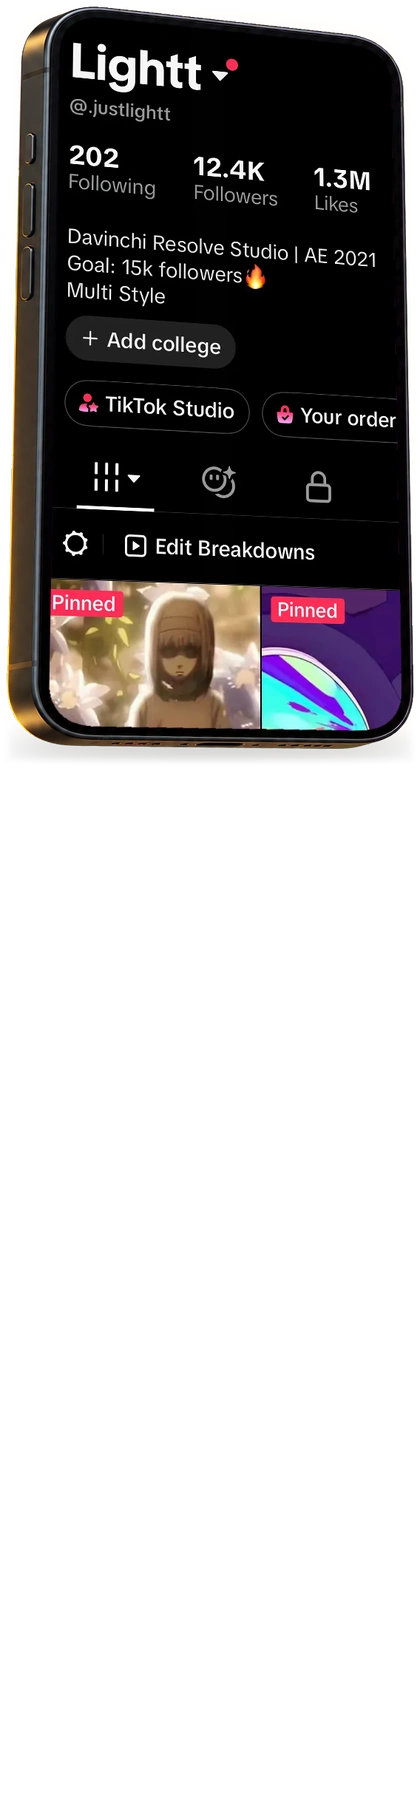
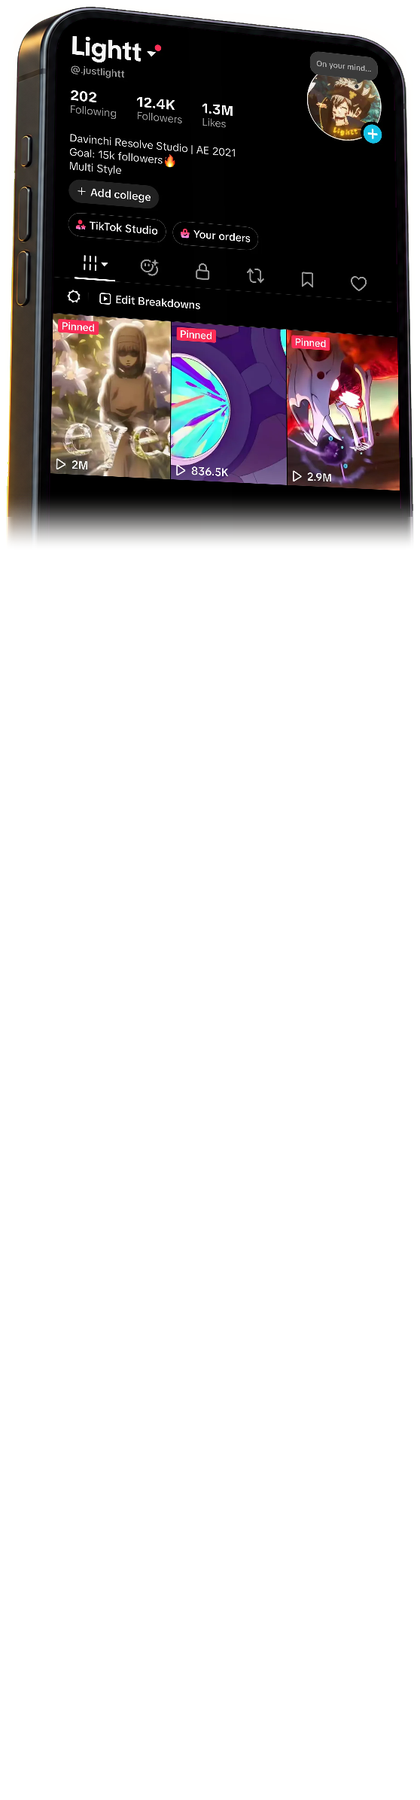
Show the full TikTok profile on a fading phone

Changed region(s): [[0.0, 0.0, 0.9905, 0.4356]]

diff --git a/README.md b/README.md
@@ -22,7 +22,7 @@
 
 ### 🎬 Why the editing theme
 
-<a href="https://www.tiktok.com/@.justlightt"><picture><source media="(max-width: 600px)" srcset="assets/tiktok-phone-mobile.webp"><source media="(min-width: 601px)" srcset="assets/tiktok-phone.webp" width="220"><img align="left" src="assets/tiktok-phone.webp" alt="My real TikTok profile, @.justlightt, cropped to the real profile header and the top of the pinned edits, on an upward-facing titanium phone. 202 following, 12.4K followers and 1.3M likes." width="44%"></picture></a>
+<a href="https://www.tiktok.com/@.justlightt"><picture><source media="(max-width: 600px)" srcset="assets/tiktok-phone-mobile.webp"><source media="(min-width: 601px)" srcset="assets/tiktok-phone.webp" width="220"><img align="left" src="assets/tiktok-phone.webp" alt="My real TikTok profile, @.justlightt, with the full profile, avatar and pinned view counts visible on an upward-facing phone that fades into the page. 202 following, 12.4K followers, 1.3M likes, and pinned edits with 2M, 836.5K and 2.9M views." width="44%"></picture></a>
 
 ✂ I make anime, show and movie edits in After Effects for 12.4K followers. My top post reached 2.9M views. 🛠 I built Eternal2x for my own edits. The DaVinci Resolve tool treats held frames on 2s as deliberate. I like making tools as much as edits. I study CS + Sociology at Northeastern and spend time with the Video Editing Club and Arab Student Association.
 
